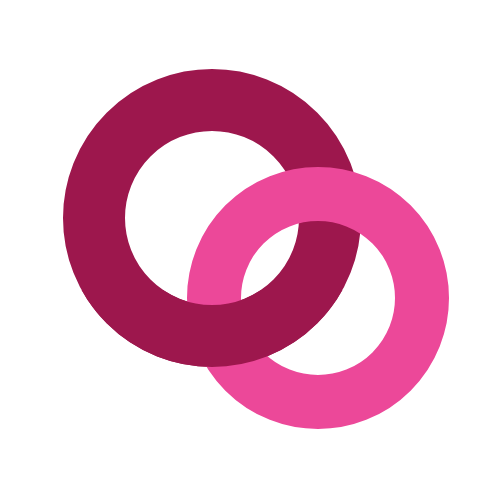
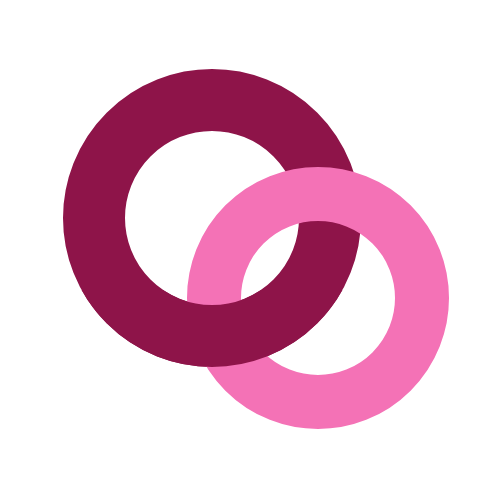
Rebuild palette as all pinks, including dark sections
Claude-Session: https://claude.ai/code/session_01G6gvxkUtkH3PQ2kPFbRBNR

Changed region(s): [[0.36, 0.33, 0.9, 0.87]]

diff --git a/site.css b/site.css
@@ -1,10 +1,15 @@
 /* Secure Software — shared site styles.
    Same layout system as securefunder.org / securebroker.org, with a pink palette. */
 :root {
-  --ink: #1E1218; --text: #45353D; --muted: #7A6670; --rule: #EEDCE5; --band: #FDF4F8; --paper: #FFFFFF;
-  --link: #C2185B; --accent: #C2185B; --accent-deep: #9D174D; --dark: #2E0A1C;
-  --highlight: #F9A8D4; --tag: #FBCFE8;
-  --foot-text: #DABFCC; --foot-head: #AA8E9C; --foot-link: #F8E8EF;
+  /* Pinks, soft -> bright -> dark */
+  --pink-50: #FFF5FA; --pink-100: #FDE7F1; --pink-200: #FBCFE5; --pink-300: #F7A8CF;
+  --pink-500: #EC4899; --pink-600: #D6246F;
+  --pink-700: #B0185A; --pink-800: #8E1449; --pink-900: #6B0F38; --pink-950: #3F0820;
+
+  --ink: var(--pink-950); --text: #4A2A39; --muted: #8A6475; --rule: #F3D9E5; --band: var(--pink-50); --paper: #FFFFFF;
+  --link: var(--pink-700); --accent: var(--pink-600); --accent-deep: var(--pink-700); --dark: var(--pink-800);
+  --highlight: var(--pink-300); --tag: var(--pink-200);
+  --foot-text: var(--pink-200); --foot-head: var(--pink-300); --foot-link: #FFFFFF;
   --serif: 'Source Serif 4', Georgia, 'Times New Roman', serif;
   --sans: 'Public Sans', 'Helvetica Neue', Arial, sans-serif;
   --wrap: 1160px;
@@ -66,7 +71,7 @@ h1, h2, h3 { font-family: var(--serif); color: var(--ink); font-weight: 500; mar
 .body p:last-child { margin-bottom: 0; }
 .body strong { color: var(--ink); font-weight: 600; }
 .tag-new { display: inline-block; background: var(--tag); color: var(--ink); font-size: 12px; font-weight: 700; letter-spacing: .08em; text-transform: uppercase; line-height: 1; padding: 6px 9px; margin-bottom: 14px; }
-.soft-mark { background: rgba(249, 168, 212, .5); color: inherit; padding: 1px 4px; border-radius: 3px; }
+.soft-mark { background: rgba(247, 168, 207, .55); color: inherit; padding: 1px 4px; border-radius: 3px; }
 
 .lead { font-family: var(--serif); font-size: 24px; line-height: 1.45; color: var(--ink); margin: 0 0 28px; max-width: 30em; }
 
@@ -90,7 +95,7 @@ h1, h2, h3 { font-family: var(--serif); color: var(--ink); font-weight: 500; mar
 /* Compare (not a checklist) */
 .contrast { display: grid; grid-template-columns: repeat(2, minmax(0, 1fr)); gap: 16px; }
 .contrast > div { border: 1px solid var(--rule); padding: 22px 22px 24px; }
-.contrast .is { border-color: var(--accent); background: #FDF2F7; }
+.contrast .is { border-color: var(--accent); background: var(--pink-100); }
 .contrast h3 { font-family: var(--sans); font-size: 12px; font-weight: 700; letter-spacing: .1em; text-transform: uppercase; color: var(--muted); margin: 0 0 12px; }
 .contrast .is h3 { color: var(--accent); }
 .contrast ul { list-style: none; margin: 0; padding: 0; }
@@ -112,12 +117,12 @@ h1, h2, h3 { font-family: var(--serif); color: var(--ink); font-weight: 500; mar
 .linkbtn:hover { text-decoration: underline; text-underline-offset: 3px; }
 
 /* Closing band */
-.closing { padding: 96px 0; background: var(--dark); color: var(--foot-text); }
+.closing { padding: 96px 0; background: var(--pink-700); color: var(--foot-text); }
 .closing .wrap { display: flex; align-items: flex-end; justify-content: space-between; gap: 40px; flex-wrap: wrap; }
 .closing h2 { color: #fff; font-size: clamp(32px, 4vw, 44px); line-height: 1.1; max-width: 16em; }
 .closing p { margin: 14px 0 0; font-size: 16px; }
-.closing .btn { background: var(--highlight); border-color: var(--highlight); color: var(--ink); }
-.closing .btn:hover { background: #fff; border-color: #fff; }
+.closing .btn { background: #fff; border-color: #fff; color: var(--pink-800); }
+.closing .btn:hover { background: var(--pink-200); border-color: var(--pink-200); }
 .closing .btn-quiet { background: transparent; color: #fff; border-color: #fff; }
 .closing .btn-quiet:hover { background: #fff; color: var(--ink); }
 .closing-actions { display: flex; gap: 12px; flex-wrap: wrap; }
@@ -173,8 +178,8 @@ h1, h2, h3 { font-family: var(--serif); color: var(--ink); font-weight: 500; mar
 .notice { font-size: 14px; color: var(--muted); margin: 16px 0 0; }
 
 /* Footer */
-.site-foot { padding: 56px 0 48px; font-size: 14px; color: var(--foot-text); background: var(--dark); }
-.site-foot .fob { --fob-rule: rgba(255,255,255,0.15); margin: 0 0 48px; }
+.site-foot { padding: 56px 0 48px; font-size: 14px; color: var(--foot-text); background: var(--pink-900); }
+.site-foot .fob { --fob-rule: rgba(255,255,255,0.22); margin: 0 0 48px; }
 .site-foot .fob-title { margin: 0 0 6px; font-family: inherit; font-size: 17px; font-weight: 700; color: #fff; }
 .site-foot .fob-sub { margin: 0; max-width: none; font-size: 14px; color: var(--foot-text); }
 .fob-row { list-style: none; padding: 0; margin: 24px 0 0; display: grid; grid-template-columns: repeat(5, minmax(0, 1fr)); border-top: 1px solid var(--fob-rule); border-bottom: 1px solid var(--fob-rule); }
@@ -193,10 +198,10 @@ h1, h2, h3 { font-family: var(--serif); color: var(--ink); font-weight: 500; mar
 .site-foot a { color: var(--foot-link); }
 .site-foot a:hover { color: #fff; }
 .site-foot .foot-col a { display: block; padding: 3px 0; }
-.site-foot .foot-bottom { margin-top: 44px; padding-top: 20px; border-top: 1px solid rgba(255,255,255,.15); display: flex; justify-content: space-between; gap: 24px; flex-wrap: wrap; }
+.site-foot .foot-bottom { margin-top: 44px; padding-top: 20px; border-top: 1px solid rgba(255,255,255,.22); display: flex; justify-content: space-between; gap: 24px; flex-wrap: wrap; }
 
 /* Bio modal */
-.bio-overlay { position: fixed; inset: 0; z-index: 100; background: rgba(30,18,25,.5); display: none; align-items: center; justify-content: center; padding: 24px; }
+.bio-overlay { position: fixed; inset: 0; z-index: 100; background: rgba(63,8,32,.5); display: none; align-items: center; justify-content: center; padding: 24px; }
 .bio-overlay.active { display: flex; }
 .bio-box { position: relative; background: #fff; max-width: 620px; width: 100%; padding: 44px 40px 36px; border: 1px solid var(--rule); max-height: 90vh; overflow: auto; }
 .bio-box h3 { font-size: 24px; margin-bottom: 18px; }
